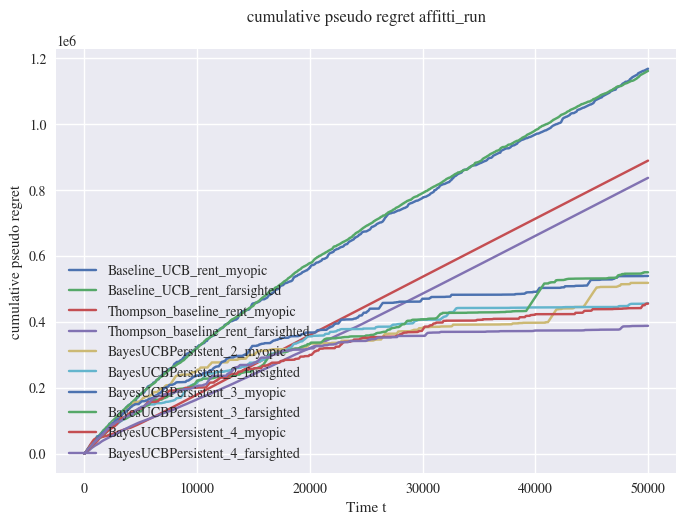
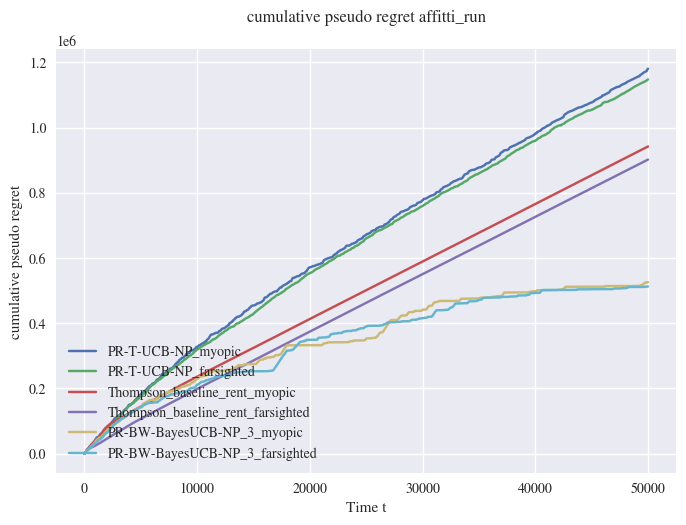
affitti

diff --git a/Experiment/MainPerServerRent.py b/Experiment/MainPerServerRent.py
@@ -16,14 +16,11 @@ from RentScenario.RentBound1Learner import RentBound1LearnerPartial
 from RentScenario.Idea2Rent import Idea2_rent
 from RentScenario.TSLearnerRent import ThompsonBaselineRent,BayesUCBPersistentRent
 from tqdm import tqdm
-plt.style.use("seaborn")
-
-from matplotlib import rcParams
-rcParams['axes.titlepad'] = 20 
 
 
-plt.rcParams['mathtext.fontset'] = 'stix'
-plt.rcParams['font.family'] = 'STIXGeneral'
+
+
+
 
 #%% DATASET EXTRACION
 
@@ -65,14 +62,7 @@ for c in canoni_distinct:
 
 confidence_interval = (2*np.array(std_sfitto))/np.sqrt(num_sfitto)
 
-plt.errorbar(canoni_distinct,avg_sfitto,yerr=confidence_interval)
-plt.xlabel("canone")
-plt.ylabel("durata media sfitto (in mesi)")
 
-plt.savefig("canoni_sfitto",dpi=400)
-plt.title("Durata Media Sfitto")
-plt.savefig("canoni_sfitto",dpi=400)
-plt.show()
 
 #contratto dict
 contratto_dict = {}
@@ -215,7 +205,7 @@ from RentScenario.RentBound1Learner import RentPersistentSingleExpl
 
 
 n_runs = 50
-experiment_name = "affitti"
+experiment_name = "affitti-def"
 T_HORIZON = 50000
 for run in range(n_runs):
         learners = []
@@ -271,19 +261,6 @@ for run in range(n_runs):
                 
              
                         
-        
-        print(oracle.value)
-        for l in learners:
-                plt.plot(calculate_cumulative_pseudo_regret(l.collected_arm_values,oracle.value),label = l.name)
-
-        plt.ylabel('cumulative pseudo regret')
-        plt.title('cumulative pseudo regret '+experiment_name+"_run")
-        plt.legend(loc='lower left')
-        plt.xlabel('Time t')
-        plt_name = "Results/"+experiment_name+"_run"+str(run)
-        plt.savefig(plt_name, bbox_inches='tight')
-        #plt.show()
-        plt.clf()
 
         
         #SAVE CSV
@@ -292,84 +269,3 @@ for run in range(n_runs):
 
 
 
-#%%
-#ANALYTICS
-#-------------------------CONFIG----------------------------------#
-
-N_RUNS = n_runs
-time = T_HORIZON
-Oracle_best_arm_value = oracle.value  #TODO CONTROLLARE
-print(Oracle_best_arm_value)
-learner_names=[]
-for learner in learners:
-    learner_names.append(learner.name)
-
-exp_name = experiment_name
-step = ""
-
-print(len(learner_names))
-#dict learner-> list of list of played arms
-learner_arm_value_dict = {}
-for l in range(len(learner_names)):
-    print(l)
-    results_list_of_l = [] #it must have n_runs element
-    for i in range(N_RUNS):
-        full_name="Results/"+exp_name+"_arm_value_results_run_"+str(i)+".csv"
-        data = pd.read_csv(full_name)
-        arm_values_of_l_on_run_i = data[learner_names[l]]
-        assert(len(arm_values_of_l_on_run_i) == time)
-        #print(arm_values_of_l_on_run_i.head)
-        results_list_of_l.append(arm_values_of_l_on_run_i)
-    learner_arm_value_dict[learner_names[l]] = results_list_of_l
-
-    #PLOT SINGLE RUN di VERIFICA
-for run_id in range(N_RUNS):
-    for l in learner_names:
-        if l.__contains__('Thompson'):
-            if l.__contains__("adp"):
-                plt.plot(calculate_cumulative_pseudo_regret(learner_arm_value_dict[l][run_id],Oracle_best_arm_value),label = l, ls='--' )
-            else:
-                plt.plot(calculate_cumulative_pseudo_regret(learner_arm_value_dict[l][run_id],Oracle_best_arm_value),label = l, ls='-' )
-        else:
-            plt.plot(calculate_cumulative_pseudo_regret(learner_arm_value_dict[l][run_id],Oracle_best_arm_value),label = l)
-    
-    plt.ylabel('cumulative pseudo regret')
-    plt.title('cumulative pseudo regret '+"exp_0_"+str(step)+"_run"+str(run_id))
-    plt.legend(loc='lower left')
-    plt.xlabel('Time t')
-    plt_name = "Results/VERIFICA"+"experiment_4_"+str(step)+"_run_"+str(run_id)+".png"
-    plt.savefig(plt_name, bbox_inches='tight')
-    plt.clf()
-
-output_name = str(step)
-    #avg
-compute_experiment_pseudo_regret(learner_names=learner_names,learner_arm_value_dict=learner_arm_value_dict,oracle_value=Oracle_best_arm_value,n_runs=N_RUNS,file_name=step)
-
-
-
-
-#%%
-
-
-
-
-
-#%%
-
-'''
-[208.02683778 208.07239923 207.04134643 207.47536585 207.94585271
- 207.78641398 207.92377817 207.91783381]
-[478.08757739 464.81777379 489.12984823 485.2        463.9258644
- 513.26479258 536.68793059 442.04132231]
-
-[547.78746349 540.91662088 545.78323737 545.23799396 546.71901628
- 548.00952328 548.2359394  546.11583152]
- 
- [191.56661726 191.82326437 191.37548913 191.48939337 191.13694215
- 191.50325515 191.17223931 191.58589174]
-[477.14580527 461.9750113  492.04747625 483.41938164 470.79294247
- 512.7570863  531.58371952 444.44872783]
-
-[530.95592436 530.66131633 530.25776321 531.19045545 530.49852292
- 531.49446044 531.41619469 529.56889278]
- '''

diff --git a/Experiment/RentScenario/RentUCBLearner_single.py b/Experiment/RentScenario/RentUCBLearner_single.py
@@ -4,7 +4,7 @@ import numpy as np
 
 class RentUCBLearner_single_m(RentLearner):
     def __init__(self, n_arms, arms, t_global):
-        super().__init__(n_arms,arms,"Baseline_UCB_rent_myopic")
+        super().__init__(n_arms,arms,"PR-T-UCB-NP_myopic")
         self.criterion = np.ones(n_arms) * np.inf
         self.expected_payoffs = np.zeros(n_arms)
         self.number_of_completed_buckets = np.zeros(n_arms)
@@ -46,7 +46,7 @@ class RentUCBLearner_single_m(RentLearner):
 
 class RentUCBLearner_single_f(RentLearner):
     def __init__(self, n_arms, arms, t_global):
-        super().__init__(n_arms,arms,"Baseline_UCB_rent_farsighted")
+        super().__init__(n_arms,arms,"PR-T-UCB-NP_farsighted")
         self.criterion = np.ones(n_arms) * np.inf
         self.expected_payoffs = np.zeros(n_arms)
         self.number_of_completed_buckets = np.zeros(n_arms)

diff --git a/Experiment/RentScenario/TSLearnerRent.py b/Experiment/RentScenario/TSLearnerRent.py
@@ -89,7 +89,7 @@ class ThompsonBaselineRent(RentLearner):
 class BayesUCBPersistentRent(RentLearner):
  
     def __init__(self, n_arms, arms, tmax, farsighted=False, param = 3):
-        name = "BayesUCBPersistent_"
+        name = "PR-BW-BayesUCB-NP_"
         name += str(param) 
         if farsighted:
             name += "_farsighted"
